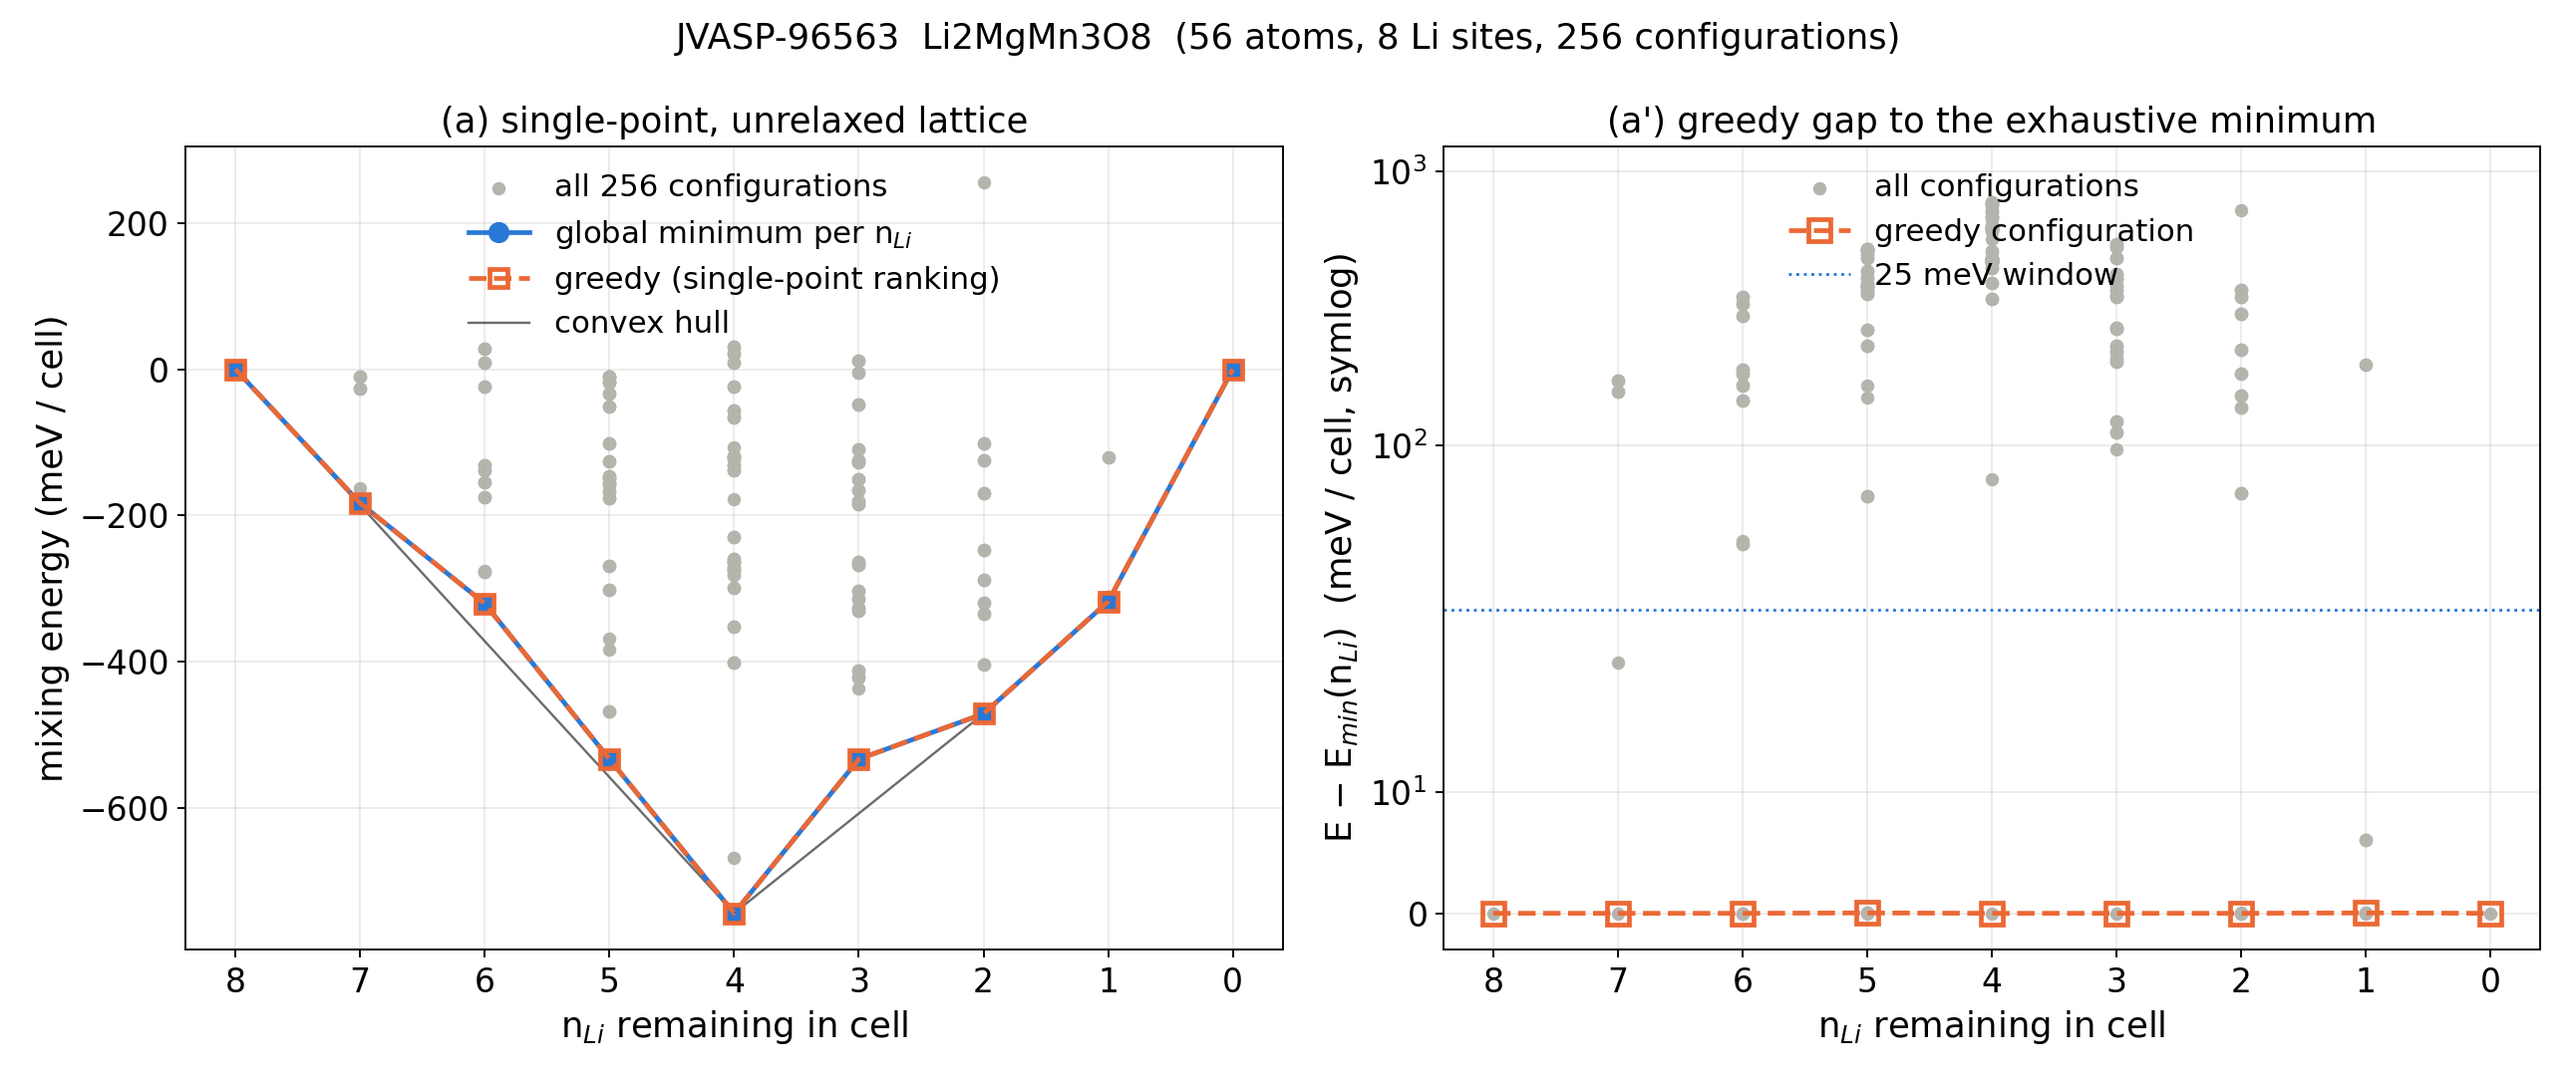
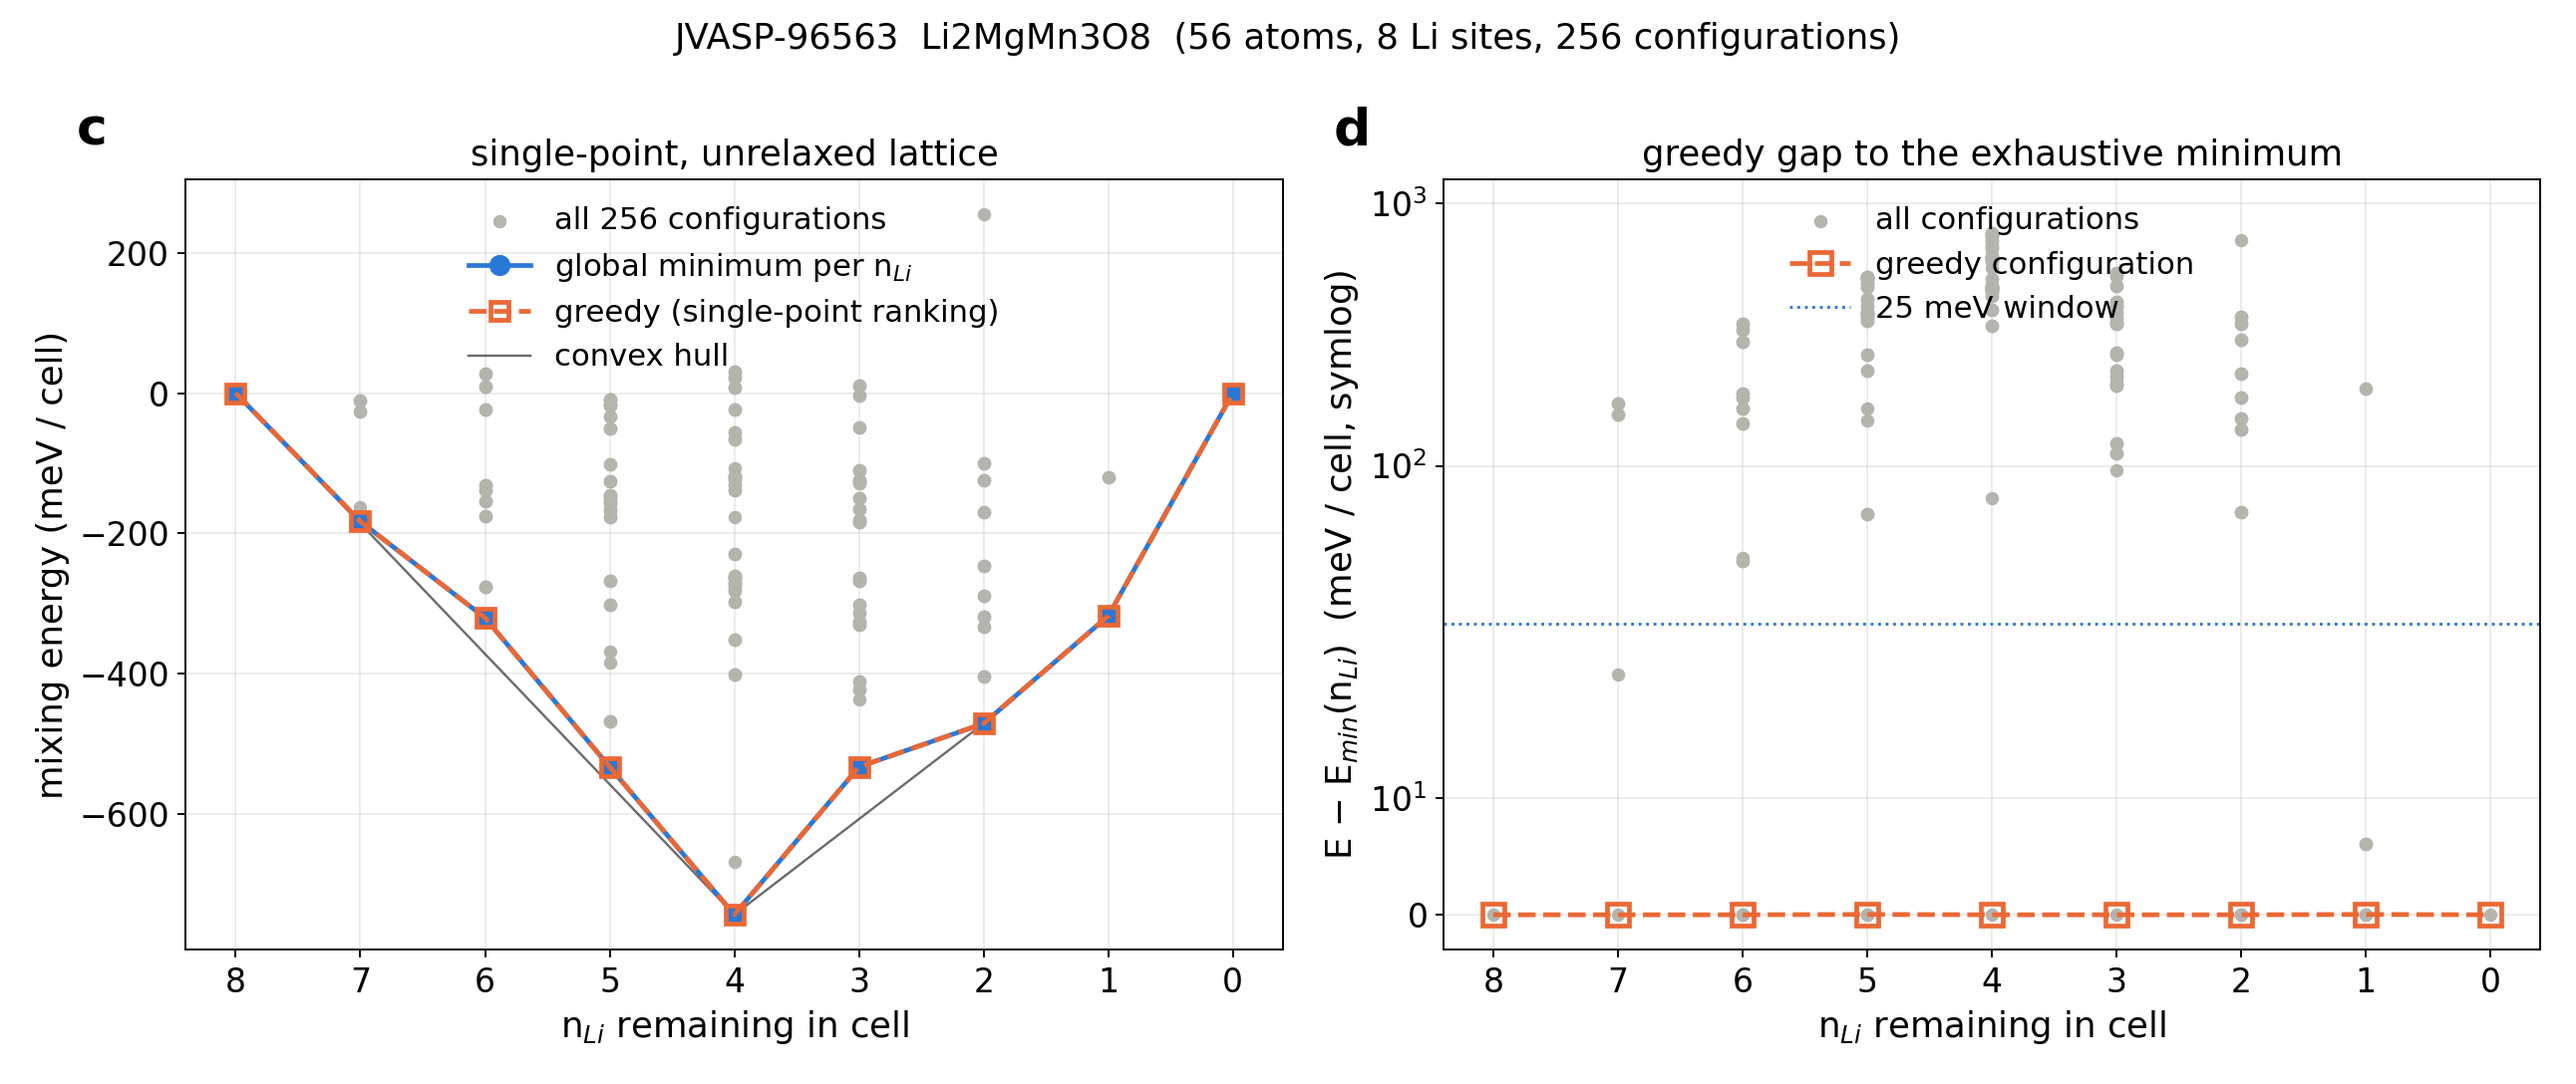
Redraw structure and enumeration SI figures: distinct element colors, panel letters

diff --git a/batterymat_jae/screening_cathode/analysis/enumeration/enumerate.py b/batterymat_jae/screening_cathode/analysis/enumeration/enumerate.py
@@ -41,6 +41,7 @@ Usage
   python enumerate.py JVASP-2017   [--relax auto|all|minimal|none] [--workers 4]
   python enumerate.py JVASP-96563  --ref-poscar /path/to/POSCAR
   python enumerate.py --summary    # rebuild enumeration_summary.md + PNGs from JSON
+  python enumerate.py --figures --results-suffix _mac   # redraw the SI figure (panels a-d) only
 
 Environment: ALIGNN-FF on this Mac needs KMP_DUPLICATE_LIB_OK=TRUE and a single
 OpenMP thread per process (multithreaded torch+dgl segfaults); the script sets
@@ -640,7 +641,7 @@ def _fe_curve(energy_by_mask_or_list, e_full, e_empty, n_tot):
     return fe
 
 
-def plot_system(res, out_png):
+def plot_system(res, out_png, letters="abc"):
     import matplotlib
     matplotlib.use("Agg")
     import matplotlib.pyplot as plt
@@ -678,7 +679,7 @@ def plot_system(res, out_png):
         ax.set_title(title); ax.set_xticks(range(0, n + 1)); ax.invert_xaxis(); ax.grid(alpha=0.25)
         ax.legend(loc="upper center", frameon=False)
 
-    mixing_panel(axes[0], "e_sp", a_sp["per_composition"], "(a) single-point, unrelaxed lattice",
+    mixing_panel(axes[0], "e_sp", a_sp["per_composition"], "single-point, unrelaxed lattice",
                  ("level_a_single_point", "global_min_path"))
     # gap panel: E - E_min(n_Li), symlog so 25 meV and 1 eV are both visible
     ax = axes[1]
@@ -696,11 +697,13 @@ def plot_system(res, out_png):
     ax.set_yscale("symlog", linthresh=GAP_WINDOW_MEV, linscale=1.0)
     ax.set_ylim(-3, max(ys) * 1.6)
     ax.set_xlabel("n$_{Li}$ remaining in cell"); ax.set_ylabel("E $-$ E$_{min}$(n$_{Li}$)  (meV / cell, symlog)")
-    ax.set_title("(a') greedy gap to the exhaustive minimum"); ax.set_xticks(range(0, n + 1)); ax.invert_xaxis()
+    ax.set_title("greedy gap to the exhaustive minimum"); ax.set_xticks(range(0, n + 1)); ax.invert_xaxis()
     ax.grid(alpha=0.25, which="both"); ax.legend(loc="upper center", frameon=False)
     if have_b:
         mixing_panel(axes[2], "e_relax", res["analysis"]["level_b_relaxed"]["per_composition"],
-                     "(b) after FIRE steps (diagnostic, see caveat)", ("level_b_relaxed", "global_min_relaxed_path"), contcar=True)
+                     "after FIRE steps (diagnostic, see caveat)", ("level_b_relaxed", "global_min_relaxed_path"), contcar=True)
+    for a, letter in zip(axes, letters):  # panel letters (computation levels are named in the titles)
+        a.text(-0.10, 1.03, letter, transform=a.transAxes, fontsize=22, fontweight="bold", va="bottom", ha="left")
     fig.suptitle(f"{res['jid']}  {res['formula']}  ({res['n_atoms']} atoms, {n} Li sites, {2**n} configurations)", fontsize=15)
     fig.tight_layout()
     fig.savefig(out_png, dpi=170)
@@ -846,8 +849,19 @@ def main():
     ap.add_argument("--ref-poscar", default=None)
     ap.add_argument("--resume", action="store_true", help="reuse energies already in results_JID.json")
     ap.add_argument("--summary", action="store_true", help="only rebuild summary + plots from existing JSON")
+    ap.add_argument("--figures", action="store_true",
+                    help="only redraw enumeration_JID.png from results_JID<suffix>.json, panels lettered across --jids")
+    ap.add_argument("--results-suffix", default="", help="e.g. _mac: the single-point runs behind the SI figure")
     ap.add_argument("--jids", nargs="*", default=["JVASP-2017", "JVASP-96563"])
     args = ap.parse_args()
+    if args.figures:
+        k = 0
+        for jid in args.jids:
+            res = json.load(open(HERE / f"results_{jid}{args.results_suffix}.json"))
+            ncol = 3 if "level_b_relaxed" in res["analysis"] else 2
+            plot_system(res, HERE / f"enumeration_{jid}.png", letters="abcdef"[k:k + ncol])
+            k += ncol
+        return
     if args.summary:
         for jid in args.jids:
             p = HERE / f"results_{jid}.json"

diff --git a/batterymat_jae/screening_cathode/analysis/make_structure_figs.py b/batterymat_jae/screening_cathode/analysis/make_structure_figs.py
@@ -10,21 +10,24 @@ from ase.visualize.plot import plot_atoms
 
 HERE = os.path.dirname(os.path.abspath(__file__))
 plt.rcParams.update({"font.size": 13})
-MATS = [("JVASP-42723-LFP", "LiFePO$_4$ (LFP), 2x2x1, 112 atoms"),
-        ("JVASP-116897-LMP", "LiMnPO$_4$ (LMP), 2x2x1, 112 atoms"),
+MATS = [("JVASP-42723-LFP", "LiFePO$_4$ polymorph (LFP), 2x2x1, 112 atoms"),
+        ("JVASP-116897-LMP", "LiMnPO$_4$ polymorph (LMP), 2x2x1, 112 atoms"),
         ("JVASP-141792-LMO", "LiMn$_2$O$_4$ (LMO), 2x2x2, 112 atoms"),
         ("JVASP-144791-NMC", "Li$_4$Mn$_3$Co$_2$Ni$_3$O$_{16}$ (NMC variant), 2x2x1, 112 atoms"),
         ("JVASP-2017-LCO", "LiCoO$_2$ (LCO), 2x2x2, 32 atoms")]
+# high-contrast colors (the jmol Li violet and Mn purple are hard to tell apart in print)
+COLORS = {"Li": "#00b8d4", "O": "#e31a1c", "P": "#ff9f1c", "Fe": "#8c510a", "Mn": "#6a3d9a", "Co": "#f781bf", "Ni": "#33a02c"}
 fig, axes = plt.subplots(2, 3, figsize=(15, 10))
 axes = axes.ravel()
 for ax, (d, title) in zip(axes, MATS):
     pos = sorted(glob.glob(os.path.join(HERE, "..", "dft_inputs", d, "supercell_*", "step_00_*", "POSCAR")))[0]
     at = read(pos, format="vasp")
-    plot_atoms(at, ax, radii=0.45, rotation="10x,-20y,0z", show_unit_cell=2)
+    plot_atoms(at, ax, radii=0.45, rotation="10x,-20y,0z", show_unit_cell=2,
+               colors=[COLORS[s] for s in at.get_chemical_symbols()])
     ax.set_title(title, fontsize=12)
     ax.set_axis_off()
 axes[-1].set_axis_off()
-axes[-1].text(0.0, 0.5, "Colors follow the jmol convention:\nLi violet, O red, P orange,\nFe brown, Mn purple, Co pink, Ni green.\nStep-0 (fully lithiated) supercells\nas written by dft_prep init.", fontsize=13, va="center")
+axes[-1].text(0.0, 0.5, "Colors: Li cyan, O red, P orange,\nFe brown, Mn purple, Co pink, Ni green.\nStep-0 (fully lithiated) supercells\nas written by dft_prep init.", fontsize=13, va="center")
 fig.tight_layout()
 out = os.path.join(HERE, "benchmark_structures.png")
 fig.savefig(out, dpi=300)
